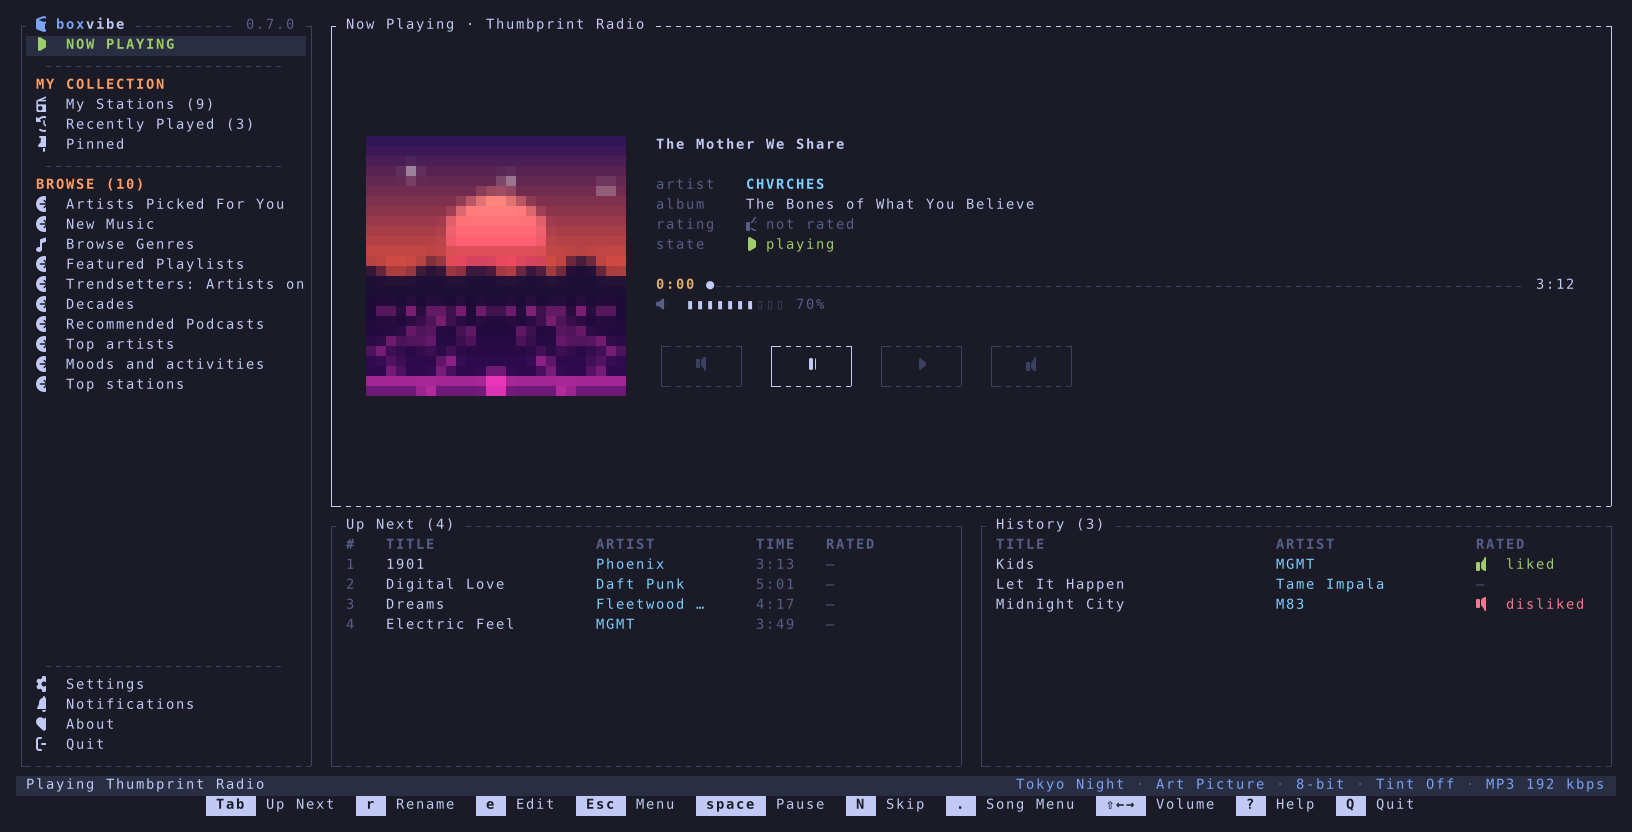
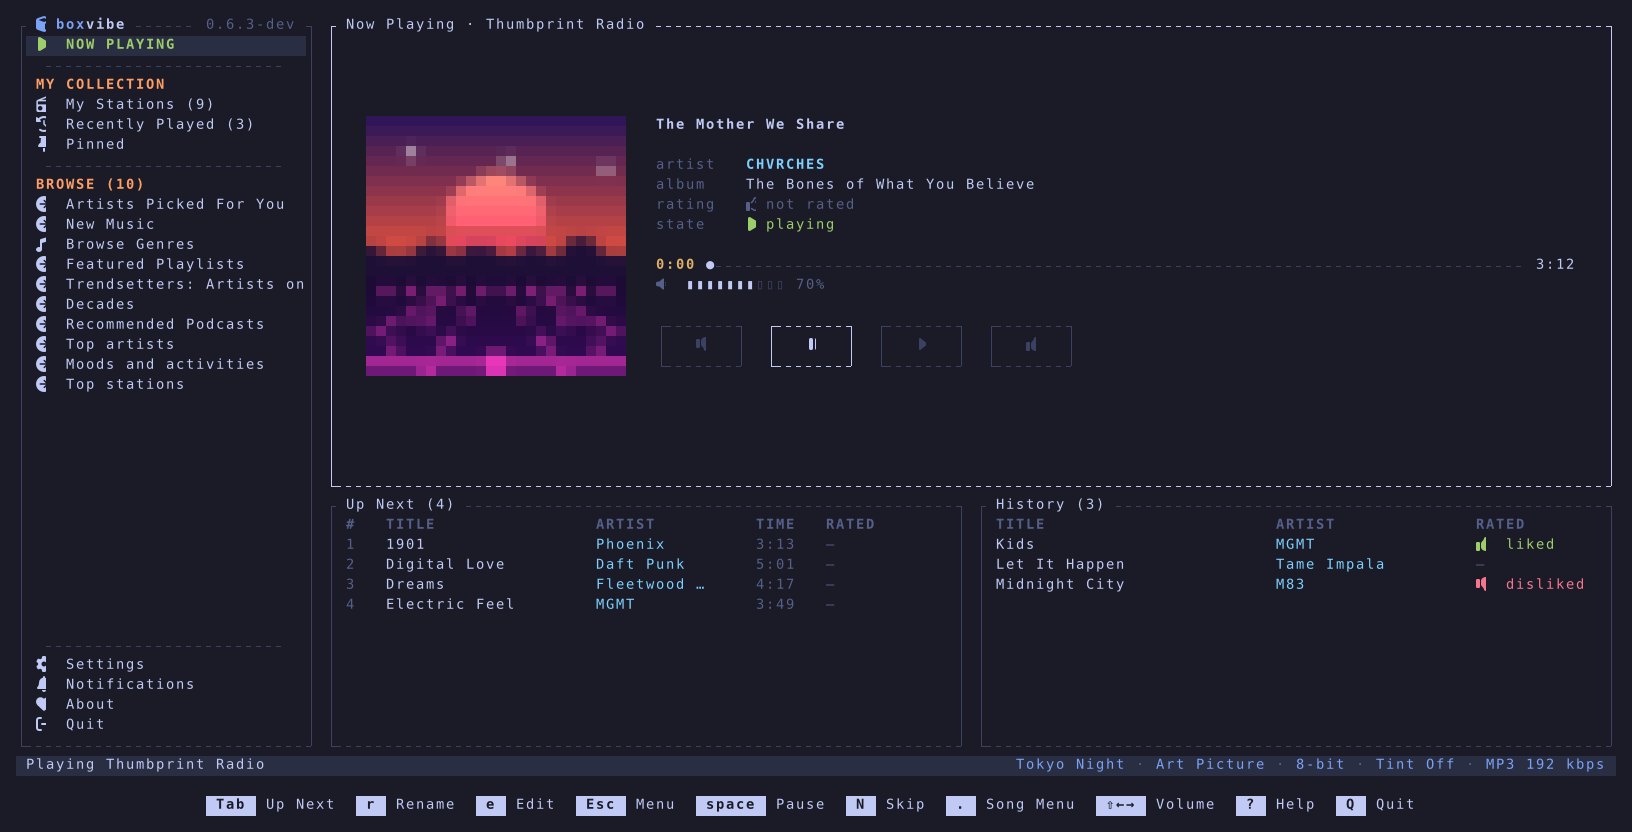
Leave a blank row between the status bar and the key bar
The two bars sat in adjacent rows and read as one block of text at the bottom
of the screen: a highlighted status line with a run of key caps directly under
it, with nothing to say where one ended and the other began.

`BAR_GAP` is one row between them, named like `PANE_GAP` so the intent is in
the layout rather than in a bare `Constraint::Length(1)`.

The row comes out of the body, so every page is one row shorter on a given
terminal size. The tests that index the bottom rows by absolute line number
move up one; `song_panes_fit_ten_rows_and_now_playing_takes_the_rest` now
derives its body height as `rows - 3` instead of `rows - 2`, and
`now_playing_art_fills_the_pane_with_info_time_and_volume_beside_it` asks for
the art height of a 33-row body rather than 34.

The favorites alignment test needed two more rows rather than one: it lines up
four favorites in the menu, and at 34 rows the fourth no longer fit once the
body lost a row.

diff --git a/src/ui/tests.rs b/src/ui/tests.rs
@@ -550,7 +550,9 @@ fn favorites_in_the_menu_line_up_and_the_add_row_sits_over_the_radio_icons() {
             app.config.ui.favorites.push(Favorite { id: st.id.clone(), name: st.name.clone() });
         }
         app.config.ui.favorites.push(Favorite { id: "gone".into(), name: "Quiet Storm".into() });
-        let buffer = screen(&mut app, 120, 34).1;
+        // Two rows taller than the old 34: the bar gap costs one row of content,
+        // and all four favorites have to stay on screen for this to line them up.
+        let buffer = screen(&mut app, 120, 36).1;
         let at: Vec<_> = ["Today's Hits", "M83 Radio", "Shuffle", "Quiet Storm"]
             .iter()
             .map(|n| (*n, name_column(&buffer, n, 1, 29)))
@@ -602,7 +604,7 @@ fn the_genre_popup_explains_the_problem_and_both_icons() {
         assert!(g.contains(ic.genre_station) && g[..g.find("Genre station: made").unwrap()].contains(ic.genre_station));
         assert!(o.contains(ic.own_station) && o[..o.find("Your own station").unwrap()].contains(ic.own_station));
         // The bar at the bottom still has the error, and its keys.
-        assert!(lines[32].contains("Pandora doesn't let you rename “Today's Hits”"), "{}", lines[32]);
+        assert!(lines[31].contains("Pandora doesn't let you rename “Today's Hits”"), "{}", lines[31]);
         assert!(
             lines[33].contains("Space") && lines[33].contains("Enter") && lines[33].contains("Esc"),
             "{}",
@@ -1404,6 +1406,25 @@ fn shift_q_shows_the_quit_box_and_says_q_again_quits() {
 }
 
 #[test]
+fn a_blank_row_separates_the_status_bar_from_the_key_bar() {
+    let mut app = demo();
+    app.config.ui.icons = crate::config::IconSet::Unicode;
+    app.status = "hello status".into();
+    for (cols, rows) in [(120u16, 36u16), (80, 24), (200, 50)] {
+        let (lines, _) = screen(&mut app, cols, rows);
+        let last = rows as usize - 1;
+        // The key bar is the bottom row and the status bar sits BAR_GAP above it.
+        assert!(lines[last].contains("Now Playing") || lines[last].contains("Quit"), "{cols}x{rows}: {}", lines[last]);
+        let status = last - usize::from(BAR_GAP) - 1;
+        assert!(lines[status].starts_with(" hello status"), "{cols}x{rows}: {}", lines[status]);
+        // Every row between them is blank, so the two bars do not read as one block.
+        for (y, line) in lines.iter().enumerate().take(last).skip(status + 1) {
+            assert!(line.trim().is_empty(), "{cols}x{rows}: row {y} is not blank: {line:?}");
+        }
+    }
+}
+
+#[test]
 fn the_logo_and_version_sit_on_the_menus_top_border() {
     let mut app = demo();
     app.config.ui.icons = crate::config::IconSet::Unicode;
@@ -1416,7 +1437,7 @@ fn the_logo_and_version_sit_on_the_menus_top_border() {
     assert!(top[..menu_end + '┐'.len_utf8()].ends_with(&version), "{top}");
     assert!(top.contains("Now Playing"), "no header row: Now Playing's border is the first row: {top}");
     assert!(!lines.iter().any(|l| l.contains("demo@") || l.contains("not logged in ")));
-    assert!(lines[34].starts_with(" hello status"), "status bar above the keys: {}", lines[34]);
+    assert!(lines[33].starts_with(" hello status"), "status bar above the keys: {}", lines[33]);
     // "box" and its icon blue, "vibe" the text colour.
     let p = app.palette;
     let x = top.chars().position(|c| c == 'b').unwrap() as u16;
@@ -1491,8 +1512,8 @@ fn now_playing_heads_the_menu_with_an_inset_rule() {
 fn song_panes_fit_ten_rows_and_now_playing_takes_the_rest() {
     let mut app = demo();
     // Side by side: Up Next and History are SONG_PANE (13) tall, Now Playing the rest.
-    for (rows, want) in [(36, 21), (50, 35), (20, 11)] {
-        assert_eq!(now_playing_height(rows - 2, false), want, "{rows} rows");
+    for (rows, want) in [(36, 20), (50, 34), (20, 11)] {
+        assert_eq!(now_playing_height(rows - 3, false), want, "{rows} rows");
         let (lines, _) = screen(&mut app, 120, rows);
         let up = lines.iter().position(|l| l.contains("Up Next (")).expect("Up Next");
         assert_eq!(up, usize::from(want), "Up Next right under Now Playing");
@@ -1697,16 +1718,16 @@ fn the_account_sits_at_the_right_of_the_status_bar() {
     app.status = "hello status".into();
     app.session = Session::LoggedIn;
     let (lines, buffer) = screen(&mut app, 120, 36);
-    let bar = &lines[34];
+    let bar = &lines[33];
     assert!(bar.starts_with(" hello status"), "{bar}");
     assert!(bar.trim_end().ends_with("Logged In As: toby@example.com"), "{bar}");
     assert!(bar.ends_with("Logged In As: toby@example.com "), "one space before the edge: {bar:?}");
     let x = (bar.chars().count() - "Logged In As: toby@example.com ".len()) as u16;
-    assert_eq!(buffer[(x, 34)].fg, app.palette.blue, "tubevibe's account colour");
+    assert_eq!(buffer[(x, 33)].fg, app.palette.blue, "tubevibe's account colour");
     // Narrow, with a long status: both cut, never overlapping.
     app.status = "a very long status message that goes on and on and on".into();
     let (lines, _) = screen(&mut app, 40, 36);
-    let bar = &lines[34];
+    let bar = &lines[33];
     assert!(bar.contains('…') && bar.contains('@'), "{bar}");
     assert!(bar.trim_end().ends_with("toby@example.com"), "narrow: just the email, whole: {bar}");
     assert!(!bar.contains("Logged In As"), "{bar}");
@@ -1716,7 +1737,7 @@ fn the_account_sits_at_the_right_of_the_status_bar() {
     // Logged out: nothing on the right.
     app.session = Session::LoggedOut;
     let (lines, _) = screen(&mut app, 120, 36);
-    assert!(!lines[34].contains("toby@"), "{}", lines[34]);
+    assert!(!lines[33].contains("toby@"), "{}", lines[33]);
 }
 
 #[test]
@@ -1730,7 +1751,7 @@ fn the_status_bar_shows_the_look_and_the_sleep_timer_left_of_the_account_and_dro
     app.config.ui.art_tint = crate::config::ArtTint::Duotone;
     app.session = Session::LoggedIn;
     app.status = "hi".into();
-    let bar = screen(&mut app, 200, 36).0[34].clone();
+    let bar = screen(&mut app, 200, 36).0[33].clone();
     assert!(
         bar.trim_end()
             .ends_with("Gruvbox · Art Picture · 8-bit · Tint Duotone · MP3 192 kbps · Logged In As: toby@example.com"),
@@ -1738,21 +1759,21 @@ fn the_status_bar_shows_the_look_and_the_sleep_timer_left_of_the_account_and_dro
     );
     // The look is in the account's colour; the separators stay muted.
     let (lines, buffer) = screen(&mut app, 200, 36);
-    let col = |s: &str| lines[34].chars().take(lines[34].find(s).unwrap()).count() as u16;
+    let col = |s: &str| lines[33].chars().take(lines[33].find(s).unwrap()).count() as u16;
     for label in ["Gruvbox", "Art Picture", "8-bit", "Tint Duotone", "MP3 192 kbps", "Logged In As"] {
-        assert_eq!(buffer[(col(label), 34)].fg, app.palette.blue, "{label}");
+        assert_eq!(buffer[(col(label), 33)].fg, app.palette.blue, "{label}");
     }
-    assert_eq!(buffer[(col("Gruvbox") + 8, 34)].fg, app.palette.muted);
+    assert_eq!(buffer[(col("Gruvbox") + 8, 33)].fg, app.palette.muted);
     app.sleep = Some(crate::app::Sleep::Minutes(15, std::time::Instant::now()));
-    let bar = screen(&mut app, 200, 36).0[34].clone();
+    let bar = screen(&mut app, 200, 36).0[33].clone();
     assert!(bar.contains("☾ 15:00 · Gruvbox") || bar.contains("☾ 14:59 · Gruvbox"), "{bar}");
     // Narrower: the tint goes first, then the rest of the look; the timer stays.
-    let bar = screen(&mut app, 150, 36).0[34].clone();
+    let bar = screen(&mut app, 150, 36).0[33].clone();
     assert!(bar.contains("☾ 1") && bar.contains("Logged In As") && !bar.contains("Tint"), "{bar}");
-    let bar = screen(&mut app, 96, 36).0[34].clone();
+    let bar = screen(&mut app, 96, 36).0[33].clone();
     assert!(bar.contains("☾ 1") && !bar.contains("Gruvbox") && bar.contains("toby@example.com"), "{bar}");
     app.sleep = Some(crate::app::Sleep::EndOfSong);
-    assert!(screen(&mut app, 200, 36).0[34].contains("☾ end of song"));
+    assert!(screen(&mut app, 200, 36).0[33].contains("☾ end of song"));
 }
 
 #[test]
@@ -1795,26 +1816,26 @@ fn the_status_bar_names_the_stream_left_of_the_account_and_follows_the_song() {
     app.session = Session::LoggedIn;
     app.status = "hi".into();
     // The demo songs are 192 kbps MP3.
-    let bar = screen(&mut app, 200, 36).0[34].clone();
+    let bar = screen(&mut app, 200, 36).0[33].clone();
     assert!(bar.trim_end().ends_with("MP3 192 kbps · Logged In As: toby@example.com"), "{bar}");
     // A free plan's HE-AAC: the label follows the song, not the setting.
     app.stream = Some((crate::pandora::AudioFormat::Aac, 64));
-    let bar = screen(&mut app, 200, 36).0[34].clone();
+    let bar = screen(&mut app, 200, 36).0[33].clone();
     assert!(bar.trim_end().ends_with("AAC 64 kbps · Logged In As: toby@example.com"), "{bar}");
     // A stream that did not say its bitrate names the format alone.
     app.stream = Some((crate::pandora::AudioFormat::Mp3, 0));
-    assert!(screen(&mut app, 200, 36).0[34].contains("· MP3 · Logged In As"));
+    assert!(screen(&mut app, 200, 36).0[33].contains("· MP3 · Logged In As"));
     // Nothing known yet, or an unknown format: no label at all.
     app.stream = Some((crate::pandora::AudioFormat::Unknown, 128));
-    assert!(!screen(&mut app, 200, 36).0[34].contains("kbps"));
+    assert!(!screen(&mut app, 200, 36).0[33].contains("kbps"));
     app.stream = None;
-    assert!(!screen(&mut app, 200, 36).0[34].contains("kbps"));
+    assert!(!screen(&mut app, 200, 36).0[33].contains("kbps"));
     // Narrow: the look goes before the stream, which goes before the timer.
     app.stream = Some((crate::pandora::AudioFormat::Aac, 64));
     app.sleep = Some(crate::app::Sleep::Minutes(15, std::time::Instant::now()));
-    let bar = screen(&mut app, 150, 36).0[34].clone();
+    let bar = screen(&mut app, 150, 36).0[33].clone();
     assert!(bar.contains("AAC 64 kbps") && bar.contains("☾ 1") && !bar.contains("Tint"), "{bar}");
-    let bar = screen(&mut app, 96, 36).0[34].clone();
+    let bar = screen(&mut app, 96, 36).0[33].clone();
     assert!(bar.contains("☾ 1") && bar.contains("toby@example.com") && !bar.contains("kbps"), "{bar}");
 }
 
@@ -1826,16 +1847,16 @@ fn following_omarchy_the_status_bar_names_its_theme_in_the_account_colour() {
     app.config.ui.set_theme("omarchy");
     app.omarchy_theme = Some("Tokyo Night".into());
     let (lines, buffer) = screen(&mut app, 200, 36);
-    let bar = &lines[34];
+    let bar = &lines[33];
     assert!(bar.contains("omarchy: Tokyo Night · Art"), "{bar}");
     let x = bar.chars().take(bar.find("omarchy: Tokyo").unwrap()).count() as u16;
-    assert_eq!((buffer[(x, 34)].fg, buffer[(x + 12, 34)].fg), (app.palette.blue, app.palette.blue));
+    assert_eq!((buffer[(x, 33)].fg, buffer[(x + 12, 33)].fg), (app.palette.blue, app.palette.blue));
     // Its name not known yet: just "Omarchy"; a picked theme: its own name.
     app.omarchy_theme = None;
-    assert!(screen(&mut app, 200, 36).0[34].contains("Omarchy · Art"));
+    assert!(screen(&mut app, 200, 36).0[33].contains("Omarchy · Art"));
     app.config.ui.set_theme("gruvbox");
     app.omarchy_theme = Some("Tokyo Night".into());
-    let bar = screen(&mut app, 200, 36).0[34].clone();
+    let bar = screen(&mut app, 200, 36).0[33].clone();
     assert!(bar.contains("Gruvbox · Art") && !bar.contains("omarchy:"), "{bar}");
 }
 
@@ -1902,7 +1923,7 @@ fn now_playing_art_fills_the_pane_with_info_time_and_volume_beside_it() {
     let mut app = demo();
     app.config.ui.icons = crate::config::IconSet::Unicode;
     let (lines, _) = screen(&mut app, 120, 36);
-    let rows = usize::from(now_playing_height(34, false));
+    let rows = usize::from(now_playing_height(33, false));
     let menu = |l: &String| l.chars().skip(30).collect::<String>();
     let art = app.art.last_area;
     assert_eq!(

diff --git a/src/ui.rs b/src/ui.rs
@@ -70,6 +70,10 @@ pub fn menu_width(app: &App, screen: u16) -> u16 {
 /// Blank columns between the menu and the page, so the two frames do not touch.
 pub const PANE_GAP: u16 = 1;
 
+/// Blank rows between the status bar and the key bar, so the two do not read as
+/// one block of text at the bottom of the screen.
+pub const BAR_GAP: u16 = 1;
+
 pub fn draw(frame: &mut Frame, app: &mut App) {
     BORDERS.set(app.config.ui.border_style);
     let p = app.palette;
@@ -83,8 +87,13 @@ pub fn draw(frame: &mut Frame, app: &mut App) {
         return;
     }
     let ic = icons(app.config.ui.icons);
-    let [body, status, keys] =
-        Layout::vertical([Constraint::Fill(1), Constraint::Length(1), Constraint::Length(1)]).areas(area);
+    let [body, status, _, keys] = Layout::vertical([
+        Constraint::Fill(1),
+        Constraint::Length(1),
+        Constraint::Length(BAR_GAP),
+        Constraint::Length(1),
+    ])
+    .areas(area);
     let side = menu_width(app, body.width);
     let [left, _, right] =
         Layout::horizontal([Constraint::Length(side), Constraint::Length(PANE_GAP), Constraint::Fill(1)]).areas(body);
